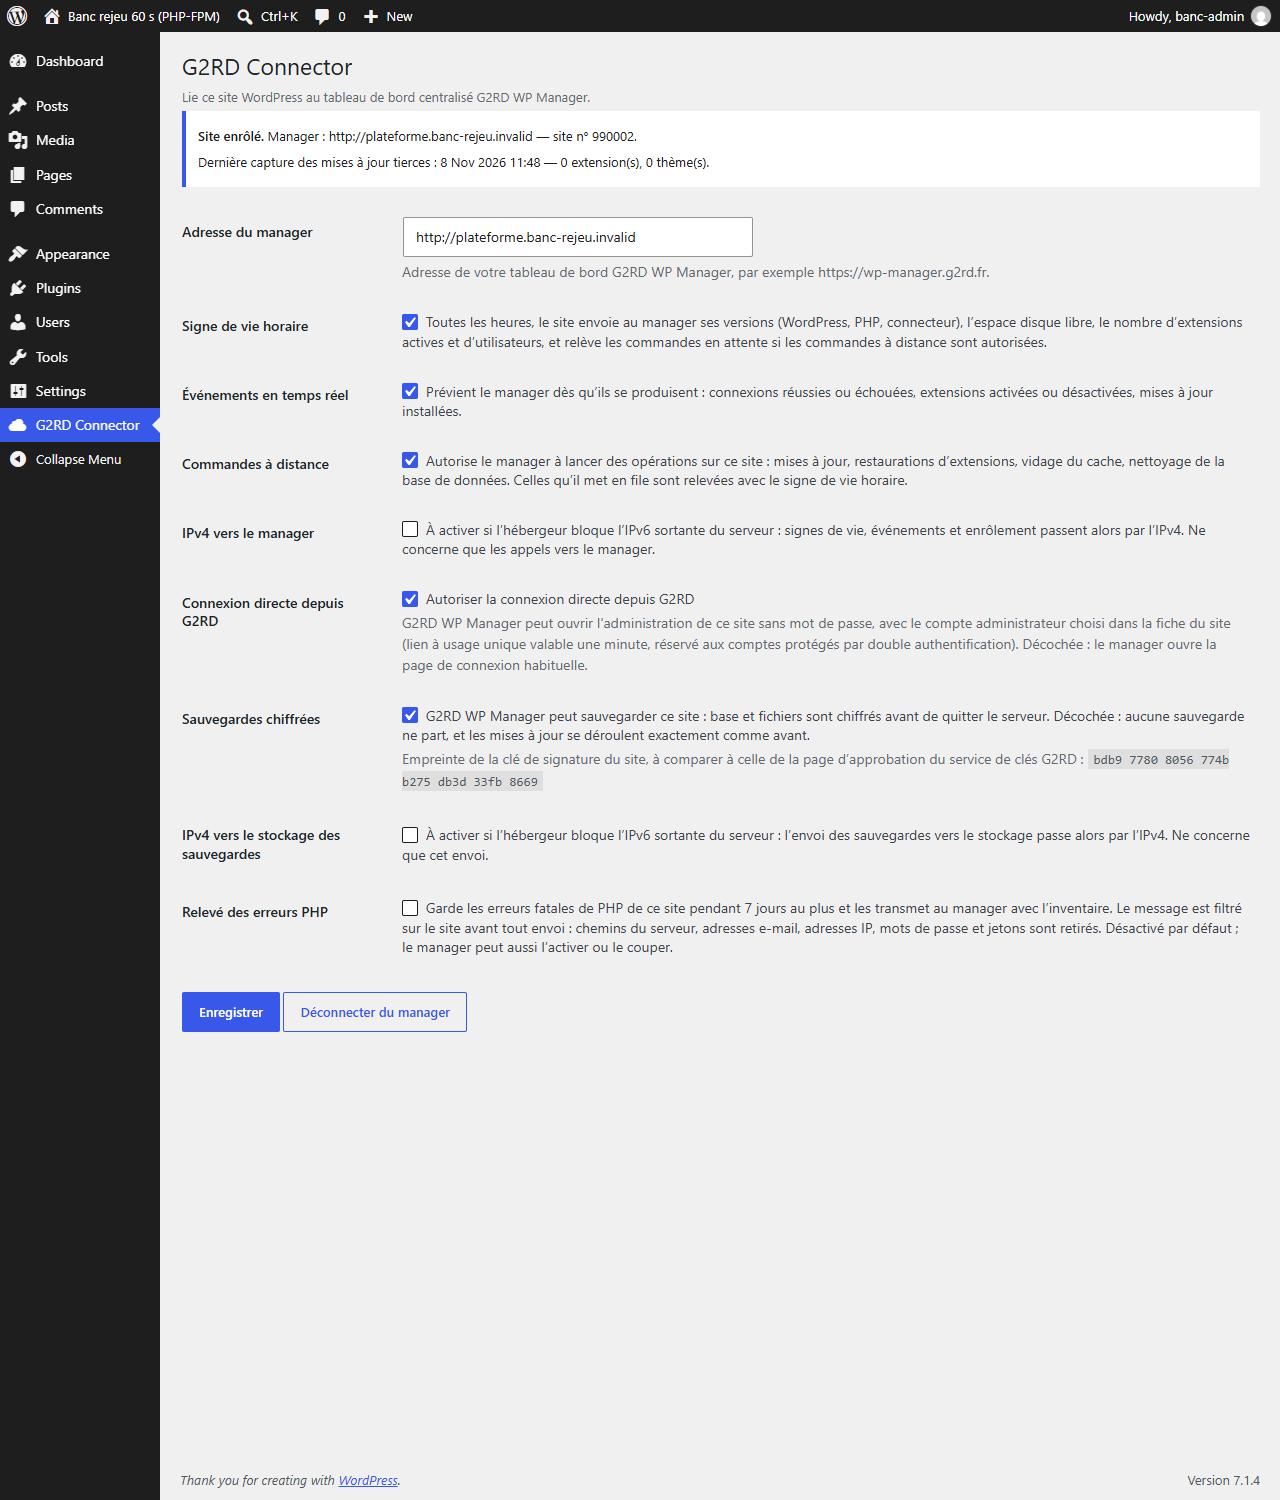
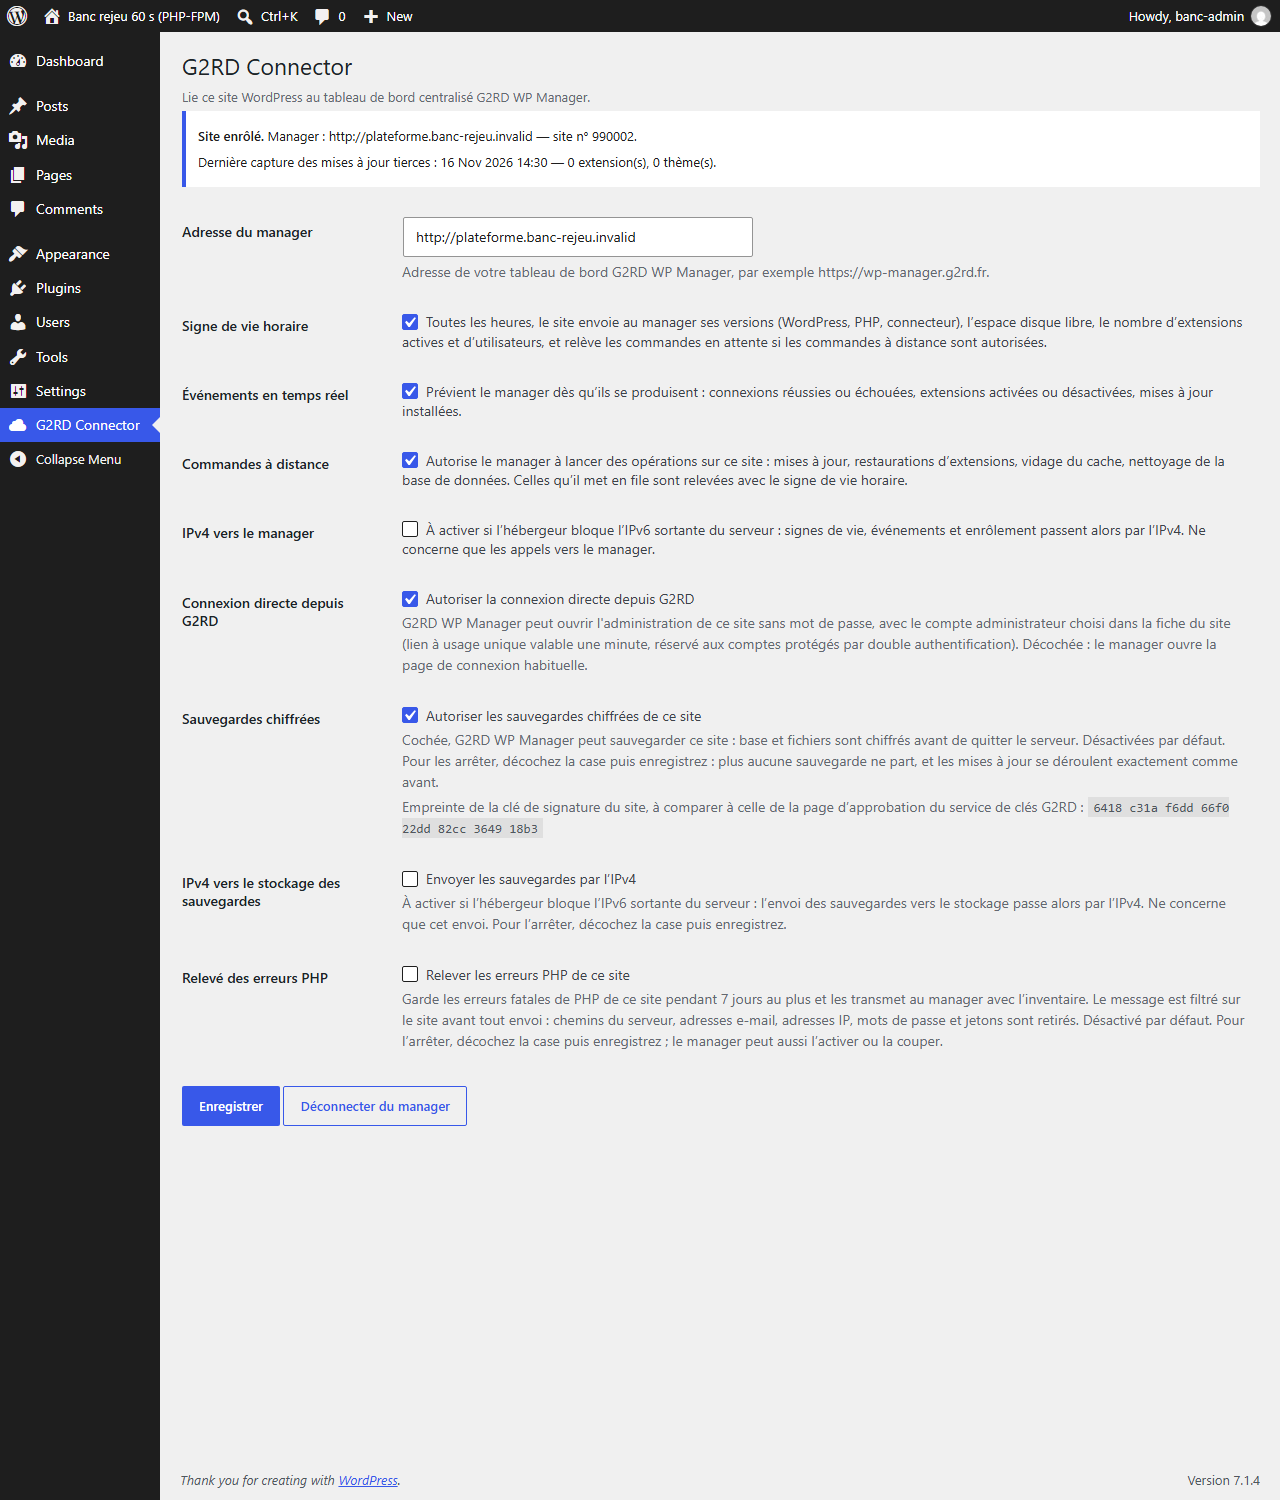
doc(sauvegardes): E20, douze captures refaites avec le connecteur 1.17.0-rc.2 (lignes Sauvegardes chiffrées et IPv4 vers le stockage, phrase de la constante, empreinte montrée seulement case cochée et réglable) ; empreintes et version mises à jour dans le relevé

diff --git a/docs/superpowers/mesures/2026-11-08-sauvegardes-banc/README.md b/docs/superpowers/mesures/2026-11-08-sauvegardes-banc/README.md
@@ -92,7 +92,7 @@ du banc par émulateur de 10 Gio.
 | E17 | **fpm** et **ols** (après correction du crochet du banc) : `backup_start` accepté pendant la mise à jour ; copie finie avant sa fin (phase `upload`) ; à la fin, état `abort` ; rapport suivant `failed` `backup_interrupted` (`interrupted_by_update`), état `idle` |
 | E18 | **fpm** (E3 `db`, puis envoi `files`) et **ols** (envoi `files`) : réglage coché, envois réussis ; connexions vers `stockage:9000` vues côté stockage en IPv4 (voir l'écart) |
 | E19 | **fpm** et **ols** : `encrypted_backup` retiré, `backup_start` et `backup_set_key` `backup_disabled`, `disabled_by_constant` vrai ; constante retirée : tout revient |
-| E20 | **fpm** et **ols** : empreinte affichée en huit groupes de quatre, **égale** à `Fingerprint::display()` de la clé du snapshot (`bdb9 7780 8056 774b b275 db3d 33fb 8669` sous `fpm`, `7c7c 0d9b 0a0a cd1c 70e1 d6a1 0b76 e478` sous `ols`) sur la page de secours et sur le panneau React ; douze captures dans `captures/` (page de secours et panneau, case cochée, décochée, constante) |
+| E20 | **fpm** et **ols** : empreinte affichée en huit groupes de quatre, **égale** à `Fingerprint::display()` de la clé du snapshot (`6418 c31a f6dd 66f0 22dd 82cc 3649 18b3` sous `fpm`, `2b71 d0ac 66f1 35d7 dae8 bfa8 3d10 efbe` sous `ols`) sur la page de secours et sur le panneau React ; douze captures dans `captures/` (page de secours et panneau, case cochée, décochée, constante), **refaites le 16/11/2026 avec le connecteur 1.17.0-rc.2** (commit `6797310`, copie au format du zip publié, panneau React reconstruit depuis les sources) sur un banc recréé : les empreintes ci-dessus sont celles des clés de signature de ces nouveaux sites, l’empreinte n’apparaît que case cochée et réglable (ni décochée, ni sous la constante, sur la page de secours comme sur le panneau) et, sous la constante, la case est décochée et grisée avec la phrase de blocage |
 | E21 | **fpm** et **ols** : la tranche en vol finit `backup_interrupted` (`interrupted_by_update`), jamais `finalize` ; `backup_start` pendant la mise à jour : `update_in_progress`, `retry_after` 60 ; témoin : une entrée « sans verrou » (`held` faux) pendant, vide après ; nouvelle sauvegarde acceptée ensuite |
 | E22 | **fpm** et **ols** : `404` pour `baseline/current.json` et `job-<id>/manifest.jsonl` sous la racine du dossier ; la racine et `index.php` : `200` de 0 octet ; nom du dossier privé absent de toute réponse ; avec ce nom connu, `current.json` (163 octets) et `manifest.jsonl` (≈ 307 Ko) se lisent (voir l'écart) |
 | E23 | **ols** : tranche par `/command-runs` : seconde tranche et mise à jour par `/command-runs` : 409 `site_busy` (rien d'enregistré) ; seconde tranche par `/command` : `failed` `backup_slice_running` ; mise à jour par `/command` : `failed` `backup_slice_running`, `retry_after` 22 ; une seule tranche exécutée (`segments_written` 2) ; mise à jour rejouée après : réussie |
